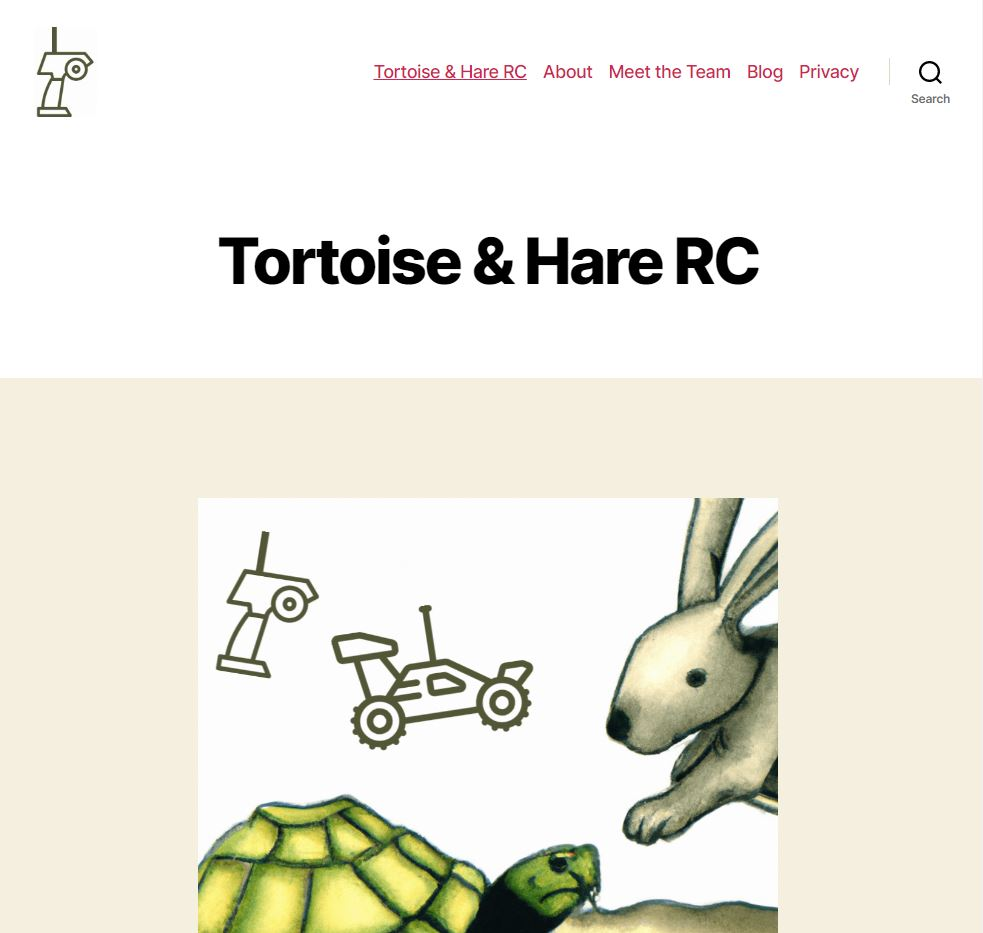
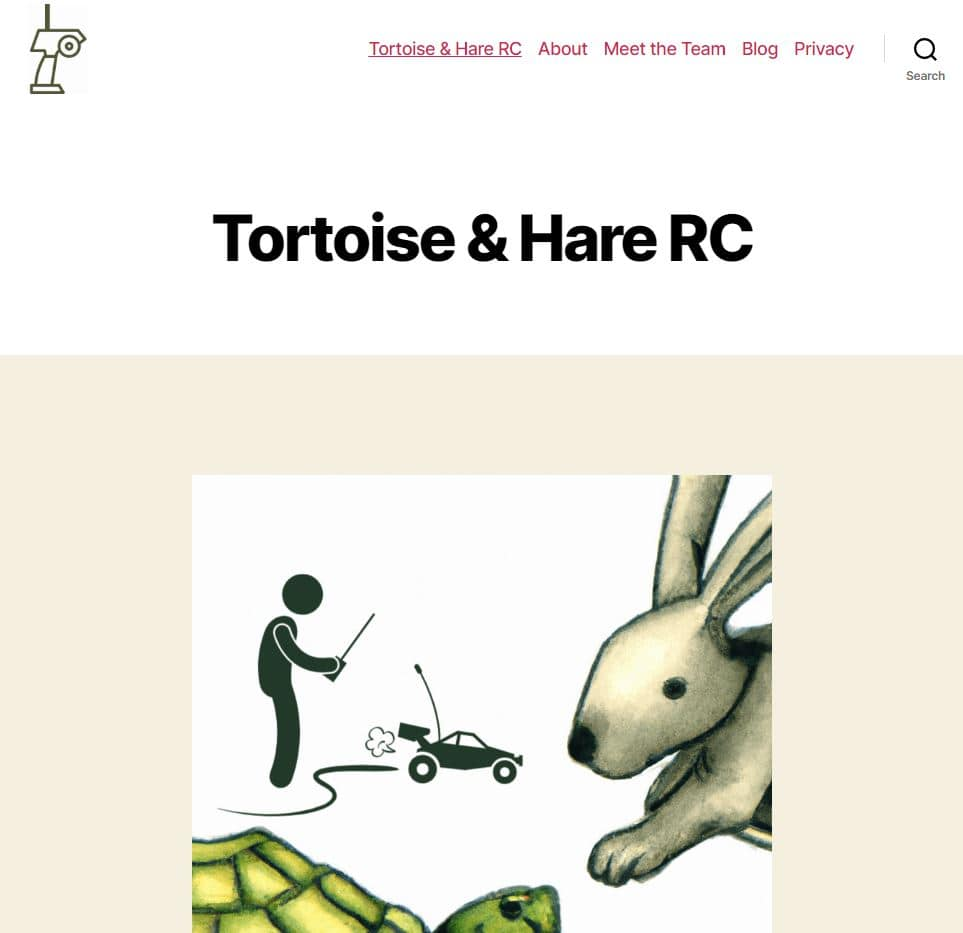
Added weatherapp link and image, updated image for t&hrc

diff --git a/src/components/Projects/index.jsx b/src/components/Projects/index.jsx
@@ -6,6 +6,7 @@ import taskflipImg from "./TaskFlip_1-min.JPG";
 import supafacebrainImg from "./SupaFaceBrain_1-min.JPG";
 import githubImg from "./Github_1-min.JPG";
 import tortoisehareImg from "./Tortoise&HareRC_1-min.JPG";
+import weatherappImg from "./WeatherApp_1-min.JPG";
 
 export const Projects = () => {
   return (
@@ -45,13 +46,13 @@ export const Projects = () => {
             />
           </a>
           <a
-            href="https://austincomstock.github.io/"
+            href="https://supa-face-brain.vercel.app/"
             target="_blank"
             rel="noreferrer"
           >
             <img
-              src={tortoisehareImg}
-              alt="Tortoise & Hare RC"
+              src={supafacebrainImg}
+              alt="Supa Face Brain"
               className="projectsImg"
             />
           </a>
@@ -63,13 +64,24 @@ export const Projects = () => {
             <img src={taskflipImg} alt="Task Flip" className="projectsImg" />
           </a>
           <a
-            href="https://supa-face-brain.vercel.app/"
+            href="https://austincomstock.github.io/"
             target="_blank"
             rel="noreferrer"
           >
             <img
-              src={supafacebrainImg}
-              alt="Supa Face Brain"
+              src={tortoisehareImg}
+              alt="Tortoise & Hare RC"
+              className="projectsImg"
+            />
+          </a>
+          <a
+            href="https://lilac-chiton-fez.cyclic.app/"
+            target="_blank"
+            rel="noreferrer"
+          >
+            <img
+              src={weatherappImg}
+              alt="Weather App"
               className="projectsImg"
             />
           </a>
